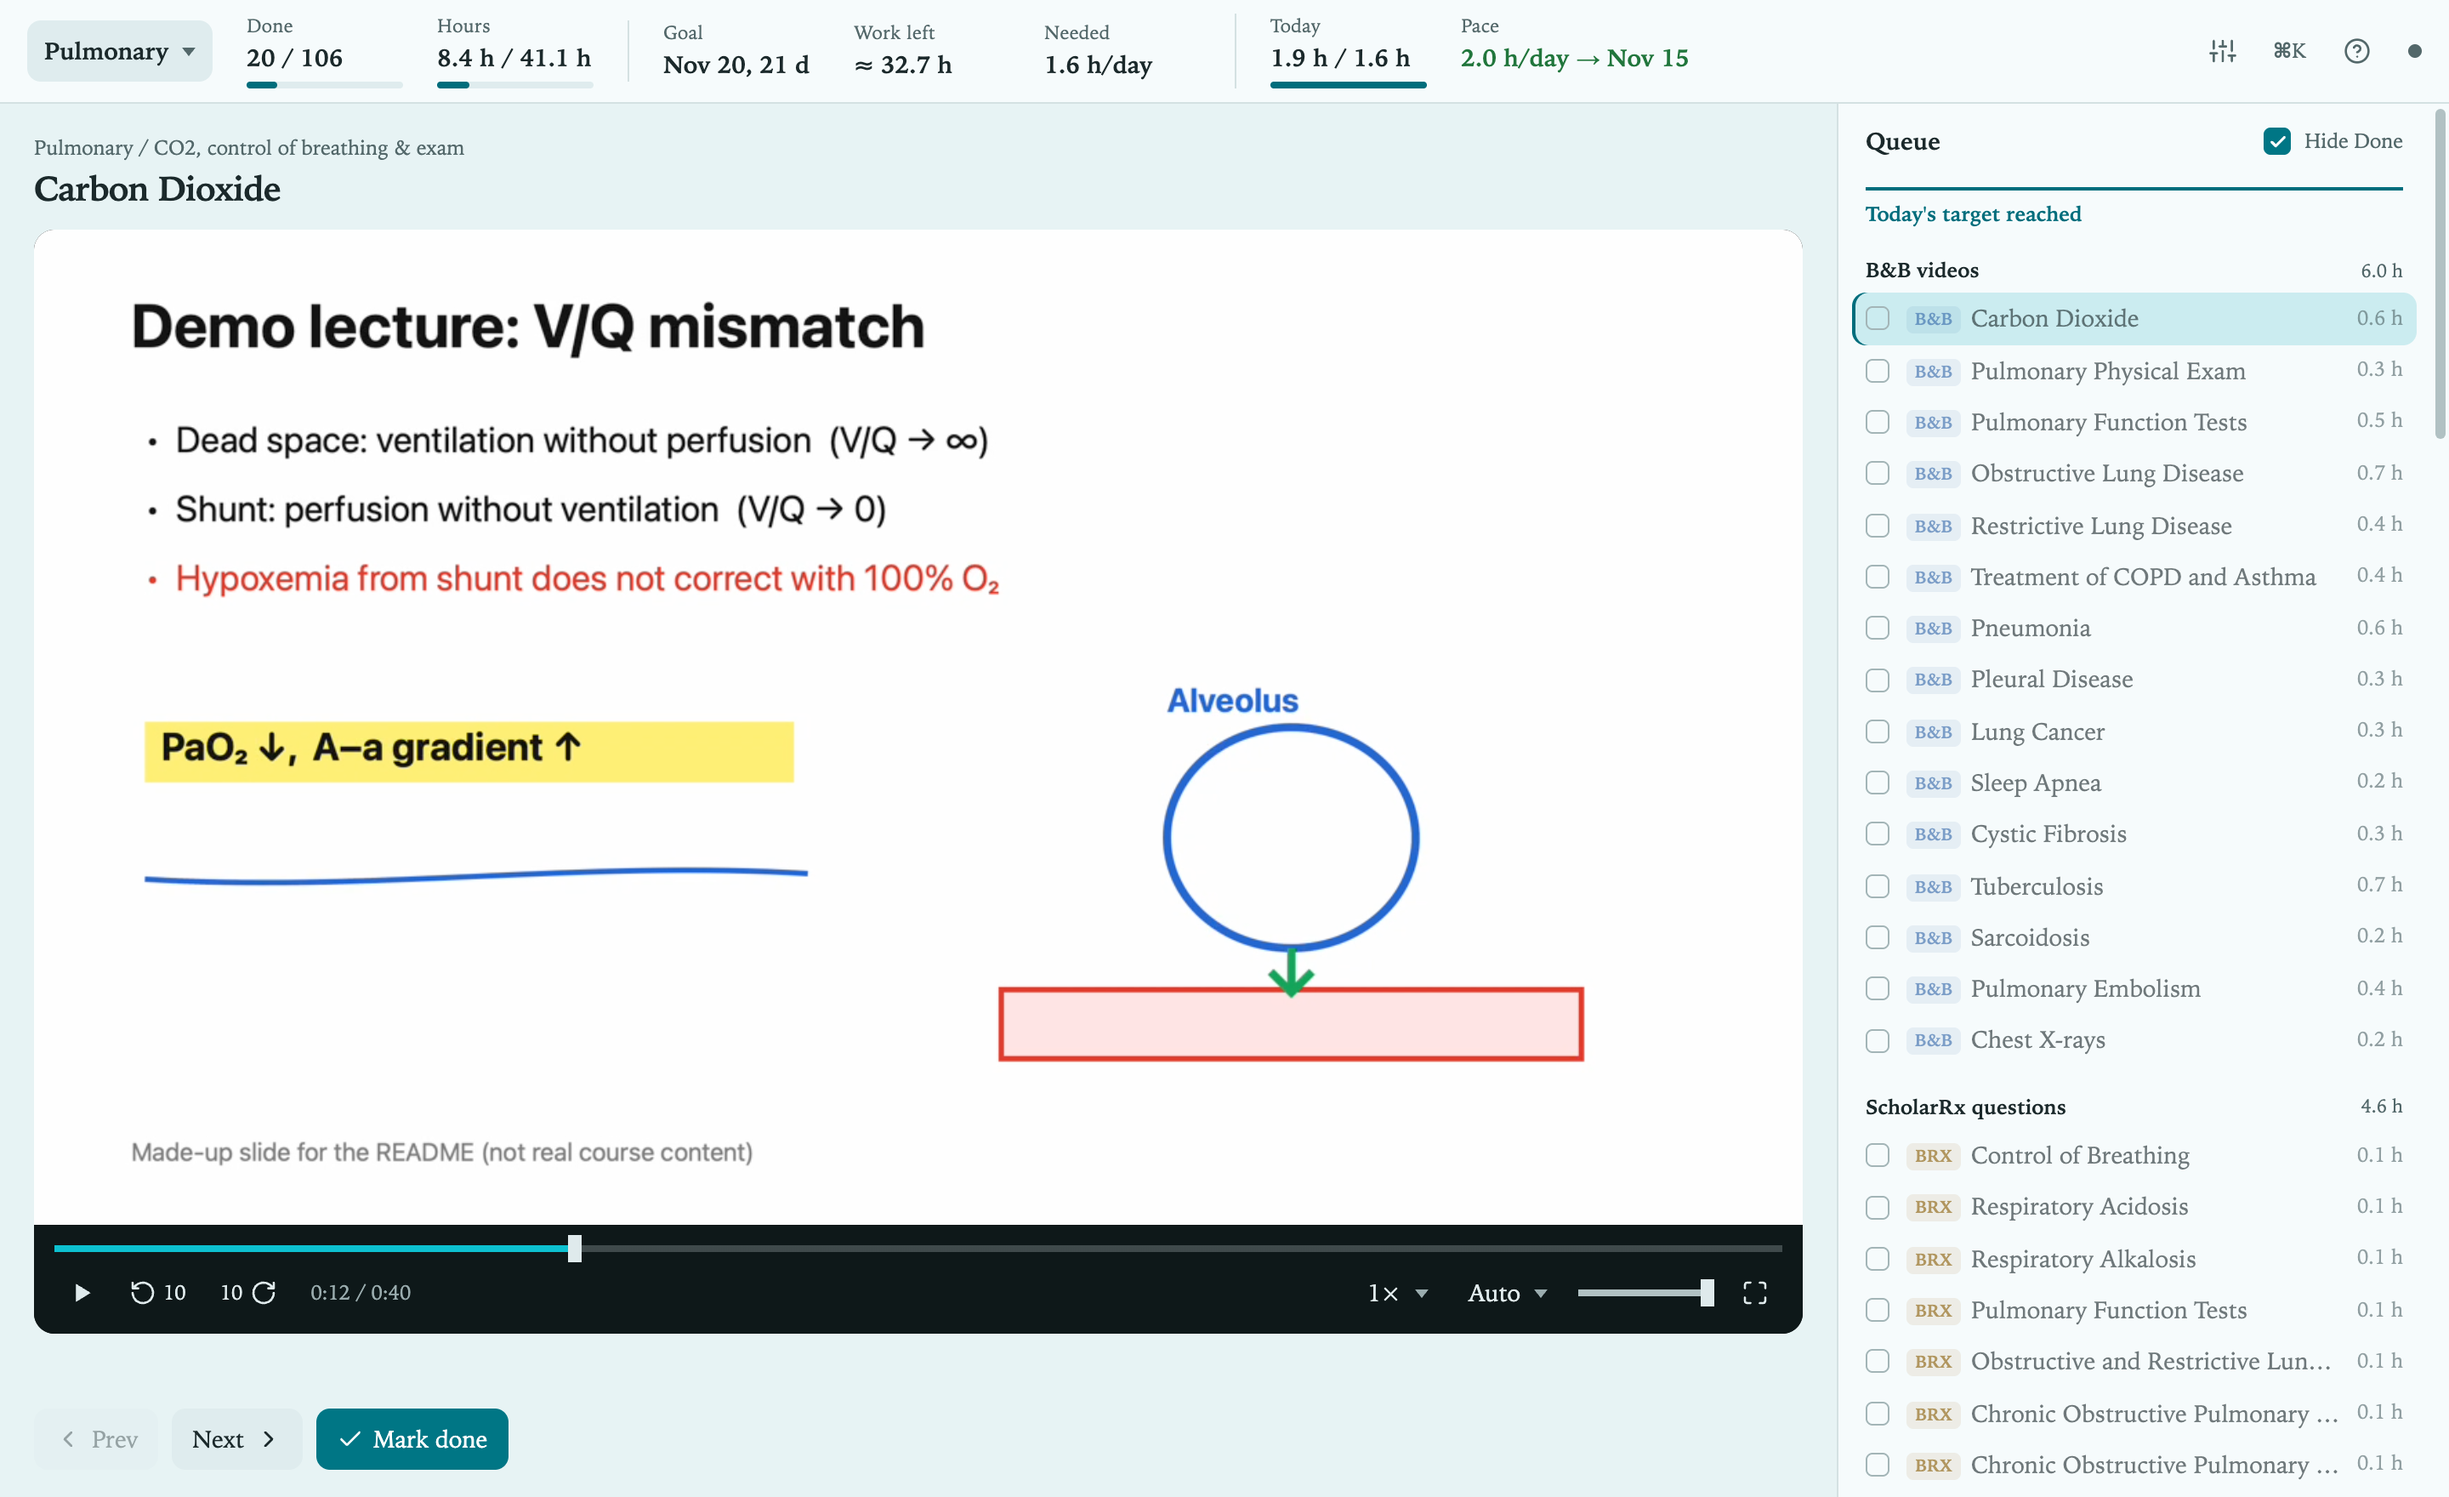
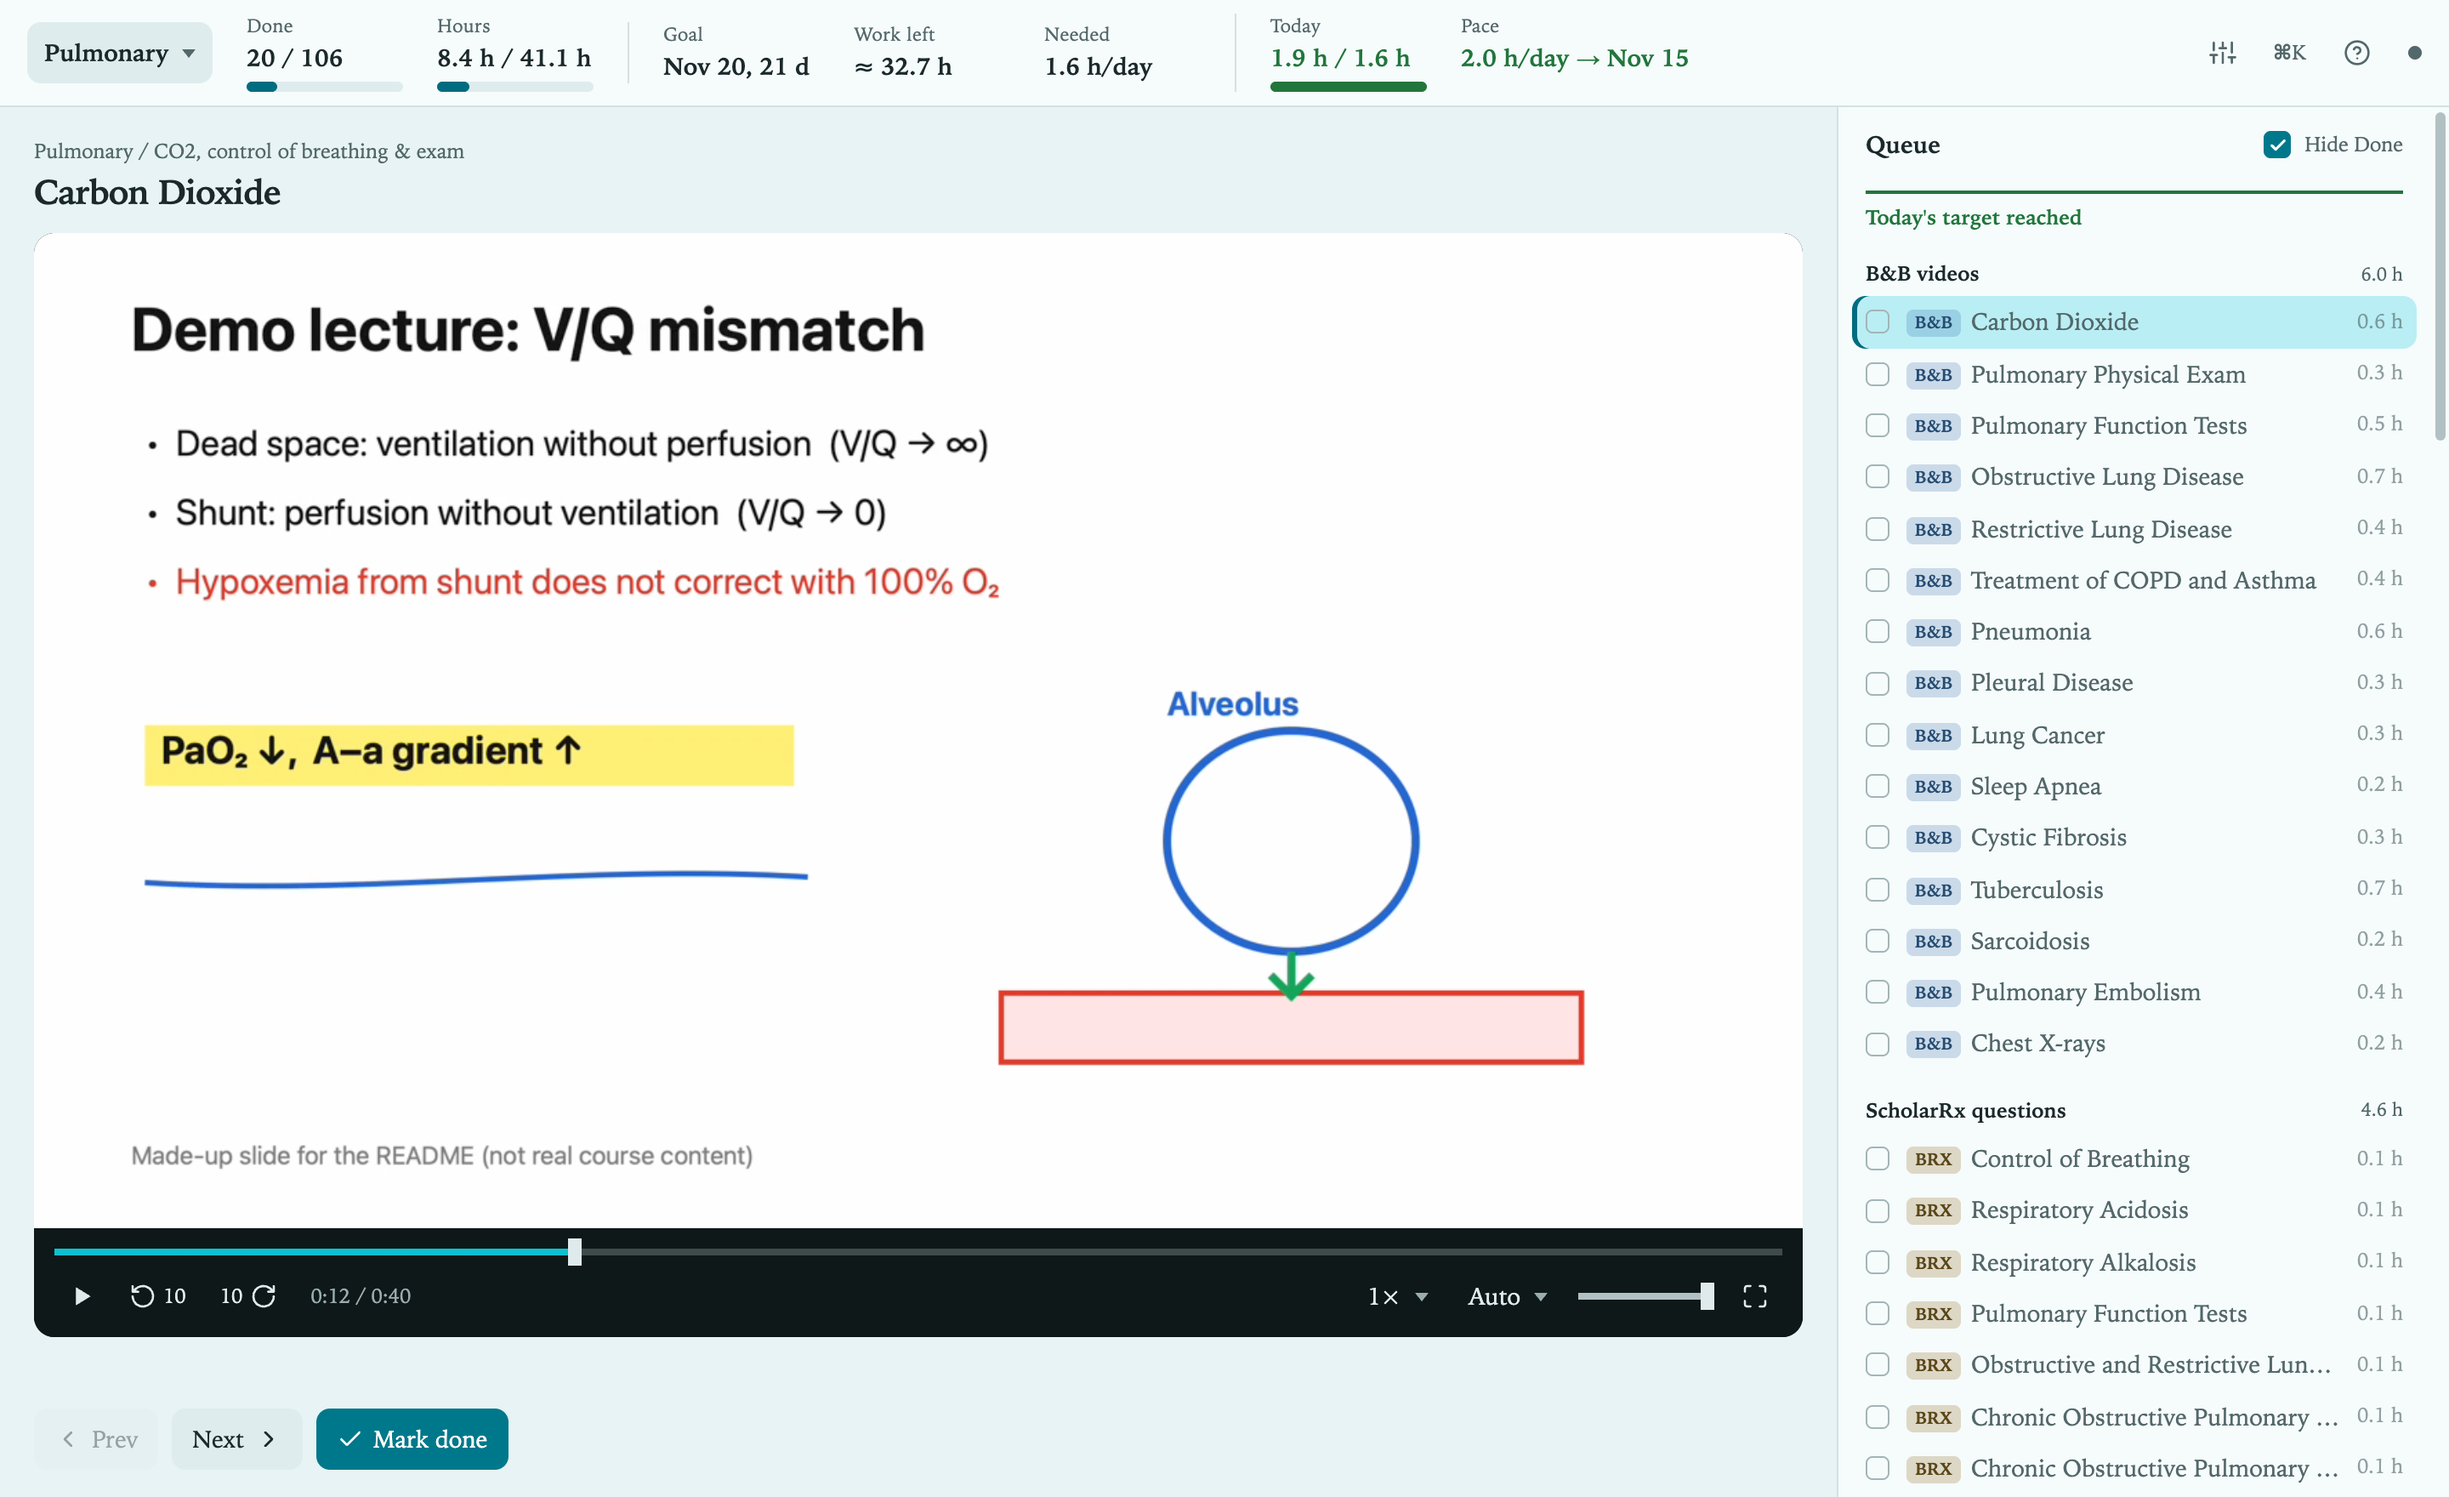
Add color where it carries meaning
Stronger accent and current row, thicker progress bars, tinted Anki and task
tiles, richer source tags, and green once today's target or the Anki gate is
cleared. The player stays muted so nothing competes with the video.

diff --git a/static/style.css b/static/style.css
@@ -13,7 +13,7 @@
   /* one hue tints everything: a theme just sets --h (see theme.js) */
   --h: 45;
   --sc: .014;  /* how much of it the surfaces get */
-  --ac: .125;  /* how much the accent gets */
+  --ac: .15;  /* how much the accent gets */
   --font-sans: "Avenir Next", Avenir, -apple-system, BlinkMacSystemFont, "Segoe UI", sans-serif;
   --font-serif: "Iowan Old Style", Charter, Georgia, serif;
   --font: var(--font-sans);
@@ -26,7 +26,7 @@
   --ctl-track: oklch(.4 var(--sc) var(--h));
   --ctl-text: oklch(.93 .012 var(--h));
   --ctl-muted: oklch(.73 .02 var(--h));
-  --ctl-accent: oklch(.74 var(--ac) var(--h));
+  --ctl-accent: oklch(.74 .125 var(--h));
   --ctl-sel: oklch(.32 .04 var(--h));
 
   /* dark: lighter surfaces sit higher */
@@ -41,7 +41,7 @@
   --accent: oklch(.76 var(--ac) var(--h));
   --accent-bg: oklch(.52 var(--ac) var(--h));
   --accent-bg2: oklch(.57 var(--ac) var(--h));
-  --current: oklch(.32 .04 var(--h));
+  --current: oklch(.34 .07 var(--h));
   --good: oklch(.78 .12 150);
   --warn: oklch(.8 .12 80);
   --bad: oklch(.72 .14 25);
@@ -75,10 +75,10 @@
   --line2: oklch(.76 .02 var(--h));
   --text: oklch(.27 .02 var(--h));
   --muted: oklch(.5 .025 var(--h));
-  --accent: oklch(.47 var(--ac) var(--h));
+  --accent: oklch(.46 var(--ac) var(--h));
   --accent-bg: oklch(.5 var(--ac) var(--h));
   --accent-bg2: oklch(.44 var(--ac) var(--h));
-  --current: oklch(.92 .035 var(--h));
+  --current: oklch(.915 .055 var(--h));
   --good: oklch(.5 .12 150);
   --warn: oklch(.54 .11 75);
   --bad: oklch(.52 .16 25);
@@ -222,9 +222,10 @@ header { flex: none; display: flex; align-items: center; gap: var(--s4); padding
 .stat .k { font-size: var(--t-xs); color: var(--muted); letter-spacing: .02em; transition: color var(--fast) var(--ease); }
 .stat .v { font-variant-numeric: tabular-nums; font-weight: 600; white-space: nowrap; }
 .stat .v.bad { color: var(--bad); } .stat .v.good { color: var(--good); }
-.bar { height: 4px; margin-top: var(--s1); background: var(--panel2); border-radius: 2px; overflow: hidden; }
-.bar > div { height: 100%; background: var(--accent); border-radius: 2px; transition: width var(--med) var(--ease); }
-.bar.big { height: 8px; margin: var(--s3) 0; }
+.bar { height: 6px; margin-top: var(--s1); background: var(--panel2); border-radius: 3px; overflow: hidden; }
+.bar > div { height: 100%; background: var(--accent); border-radius: 3px; transition: width var(--med) var(--ease); }
+.stat .v.good + .bar > div { background: var(--good); }
+.bar.big { height: 12px; margin: var(--s3) 0; border-radius: 6px; }
 .bar.big > div { background: var(--good); }
 .head-tools { display: flex; align-items: center; gap: var(--s1); }
 .anki-dot { width: 8px; height: 8px; margin-left: var(--s2); border-radius: 50%; background: var(--muted); flex: none; }
@@ -290,7 +291,8 @@ main { flex: 1; min-height: 0; display: grid; grid-template-columns: 1fr 360px; 
 #task { flex-direction: row; }
 #task .task-sec, #gate .task-sec:first-child, .tile { display: flex; flex: 1 1 0; flex-direction: column; justify-content: center; min-width: 0; padding: var(--s5);
   background: var(--panel); border: 1px solid var(--line); border-radius: var(--r-lg); box-shadow: var(--shadow-sm); }
-#task .task-sec { align-items: center; }
+#task .task-sec { align-items: center; background: color-mix(in srgb, var(--c, transparent) 8%, var(--panel)); }
+#gate.cleared .task-sec:first-child { background: color-mix(in srgb, var(--good) 12%, var(--panel)); }
 #ankiPanel .task-sec:first-child { display: flex; flex: 1; flex-direction: column; }
 .sec-label { font-size: var(--t-sm); color: var(--muted); font-weight: 600; margin-bottom: var(--s2); }
 .fields { display: flex; justify-content: center; gap: var(--s3); align-items: end; flex-wrap: wrap; }
@@ -320,7 +322,7 @@ button.quiet { background: transparent; color: var(--muted); }
 .warn-note { color: var(--warn); font-size: 13px; }
 .title-meta { margin-left: var(--s2); color: var(--muted); font-weight: 500; letter-spacing: 0; }
 .tiles { flex: 1; display: flex; gap: var(--s3); }
-.tile { --c: var(--text); font-variant-numeric: tabular-nums; }
+.tile { --c: var(--text); background: color-mix(in srgb, var(--c) 10%, var(--panel)); border-color: color-mix(in srgb, var(--c) 22%, var(--panel)); font-variant-numeric: tabular-nums; }
 .tile.new { --c: var(--bnb); } .tile.learn { --c: var(--bad); } .tile.rev { --c: var(--good); }
 .tile-num { font-size: var(--t-big); line-height: 1.1; font-weight: 600; letter-spacing: -.02em; color: var(--c); }
 .tile-k { margin-top: var(--s1); font-size: 15px; font-weight: 500; }
@@ -345,10 +347,11 @@ button.quiet { background: transparent; color: var(--muted); }
 .count { margin-right: 2px; }
 .qi { display: grid; grid-template-columns: 16px 1fr auto; gap: var(--s2); align-items: center; margin: 0 var(--s2); padding: 5px var(--s2); border-radius: var(--r-sm); cursor: pointer;
   transition: background-color var(--fast) var(--ease), color var(--fast) var(--ease); }
-.qi.current { background: var(--current); box-shadow: inset 2px 0 0 var(--accent); }
+.qi.current { background: var(--current); box-shadow: inset 3px 0 0 var(--accent); }
 @media (hover: hover) { .qi:not(.current):hover { background: var(--hover); } }
 .qi.done .qt { color: var(--muted); text-decoration: line-through; text-decoration-color: var(--line2); }
-.qi.later .qt, .qi.later .qm { opacity: .62; }
+.qi.later .qt { color: var(--muted); }
+.qi.later .qm { opacity: .62; }
 .qi .chk { width: 14px; height: 14px; border: 1.5px solid var(--line2); border-radius: var(--r-xs); display: grid; place-items: center; }
 .qi .chk .icon { width: 10px; height: 10px; stroke-width: 3.5; }
 /* marking done: the box fills and ticks, then the row folds away if done items are hidden */
@@ -360,11 +363,12 @@ button.quiet { background: transparent; color: var(--muted); }
 .qi .qm { color: var(--muted); font-size: var(--t-sm); font-variant-numeric: tabular-nums; white-space: nowrap; }
 .qi .date { margin-right: var(--s2); }
 .tag { display: inline-block; min-width: 32px; margin-right: 6px; padding: 0 var(--s1); border-radius: var(--r-xs); font-size: 10px; font-weight: 700; line-height: 16px; text-align: center; vertical-align: 1px;
-  color: var(--c); background: color-mix(in srgb, var(--c) 14%, transparent); }
+  color: color-mix(in oklab, var(--c) 60%, var(--text)); background: color-mix(in srgb, var(--c) 22%, transparent); }
 .tag.bnb { --c: var(--bnb); } .tag.sketchy { --c: var(--sketchy); }
 .tag.brick { --c: var(--brick); } .tag.amboss { --c: var(--amboss); } .tag.anki { --c: var(--anki); }
 .today-line { display: flex; justify-content: space-between; align-items: center; gap: var(--s2); margin: var(--s2) var(--s4); padding-top: 6px; border-top: 2px solid var(--accent);
   color: var(--accent); font-size: var(--t-sm); font-weight: 600; }
+.today-line.reached { border-top-color: var(--good); color: var(--good); }
 .cluster.optional { margin-top: var(--s2); padding-top: var(--s1); border-top: 1px solid var(--line); }
 .opt-toggle { border-radius: 0; }
 .opt-toggle:active { transform: none !important; }

diff --git a/static/app.js b/static/app.js
@@ -133,7 +133,7 @@ function renderStats() {
         workParts(w).map((p) => `${p.label}\t${hrs(p.sec)}`).join("\n")),
       stat("Needed", `${hrs(st.perDaySec)}/day`)),
     group("",
-      stat("Today", `${hrs(st.todaySec)} / ${hrs(st.todayNeededSec)}`, "", st.todaySec / st.todayNeededSec),
+      stat("Today", `${hrs(st.todaySec)} / ${hrs(st.todayNeededSec)}`, st.todaySec >= st.todayNeededSec ? "good" : "", st.todaySec / st.todayNeededSec),
       stat("Pace", pace, paceCls, null, "Last 3 study days → finish")),
   ].join("");
   if (html === renderStats.html) { if (!$("settingsModal").hidden) renderSettingsResult(); return; }  // a poll with no news leaves the header alone
@@ -208,7 +208,7 @@ function renderQueue() {
   const lastToday = today.size < pendingPlan ? [...today].at(-1) : undefined;
   const leftToday = Math.max(S.stats.todayNeededSec - S.stats.todaySec, 0);
   // The line where today's target runs out. Everything below it can wait.
-  const todayLine = () => `<div class="today-line"><span>${leftToday ? "End of today" : "Today's target reached"}</span>${leftToday ? `<span>${hrs(leftToday)} left</span>` : ""}</div>`;
+  const todayLine = () => `<div class="today-line ${leftToday ? "" : "reached"}"><span>${leftToday ? "End of today" : "Today's target reached"}</span>${leftToday ? `<span>${hrs(leftToday)} left</span>` : ""}</div>`;
   let html = "", beyond = false, group = null;
   const a = S.stats.ankiNow;
   // Anki row: only when there's a real chunk of cards (or a video is waiting on them)
@@ -352,6 +352,7 @@ function showItem(id) {
 function setupTask(it) {
   const amb = it.type === "amboss";
   $("ambossFields").hidden = !amb;
+  $("task").style.setProperty("--c", amb ? "var(--amboss)" : "var(--brick)");
   $("taskLink").hidden = !amb && !it.url;
   $("taskLink").href = amb ? "https://next.amboss.com/us/learning" : it.url || "";
   $("taskLinkText").textContent = amb ? "Open AMBOSS" : "Open brick";
@@ -732,6 +733,7 @@ function renderGate() {
   $("crumbs").textContent = S.block.name;
   $("itemTitle").textContent = "Anki first";
   const g = S.anki.gate, next = nextPending(curId);
+  $("gate").classList.toggle("cleared", !g);
   const nextTitle = next ? next.title : "Next";
   const from = g && `${g.title}${g.others ? ` +${g.others}` : ""} → ${nextTitle}`;
   $("gateWarn").hidden = !(g && g.deckError);
